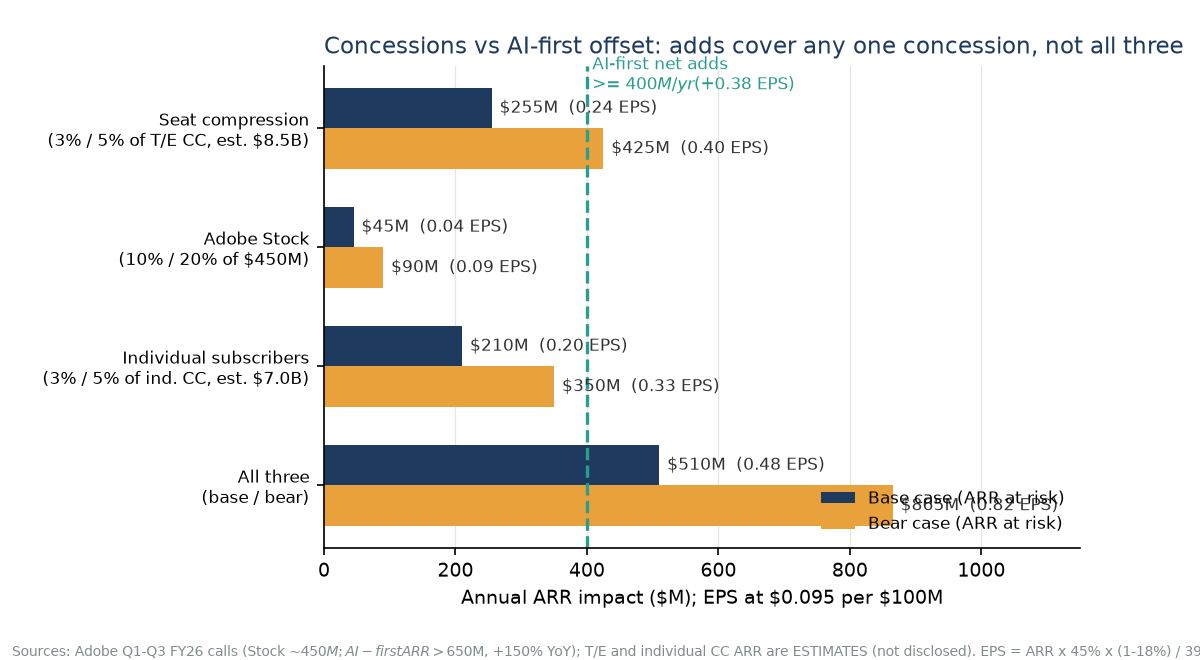
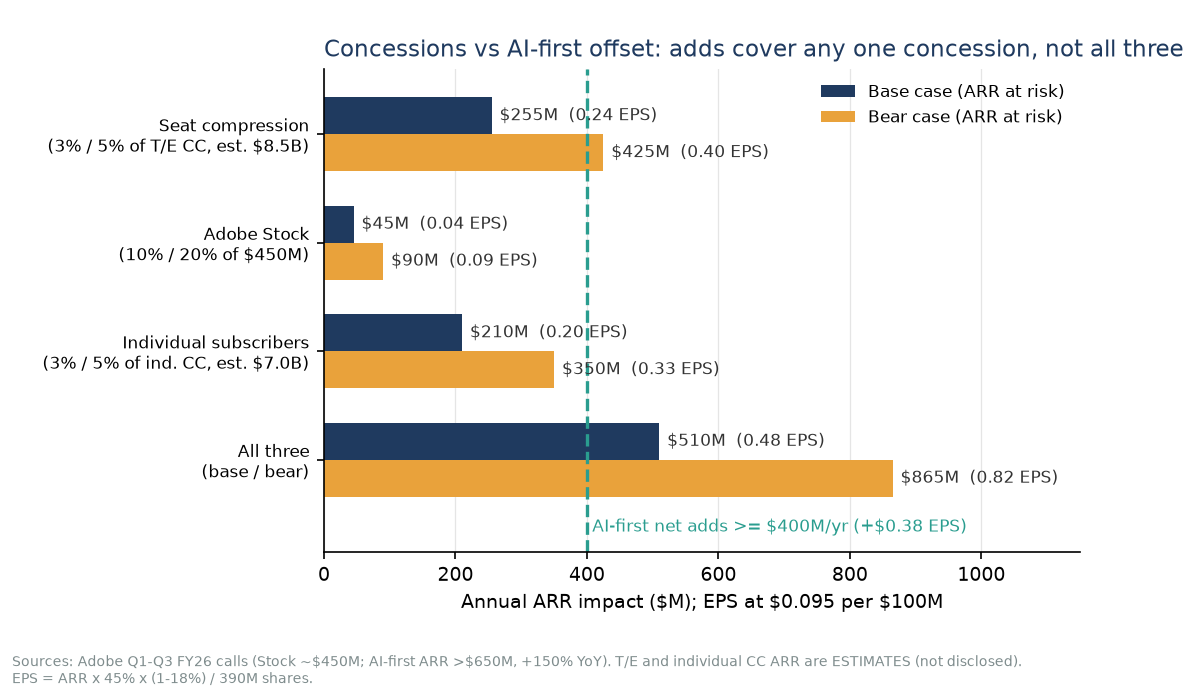
Add concessions workstream: net new ARR rebuild, BLS verification, freelance peers, Stock peers, individual-subscriber quotes, EPS sizing
Claude-Session: https://claude.ai/code/session_0135sjqnFfhmo5TP2aRhoENx

diff --git a/research/tri/concessions/findings.md b/research/tri/concessions/findings.md
@@ -1,11 +1,11 @@
 # Concessions — findings (Subagent E)
 
-**Net-new ARR trajectory (verified, datasheet basis).** FY25 organic net new Total Adobe ARR was $2.63B at Dec-2025 FX (0.47e / 0.58 / 0.66 / 0.92); FY26 is $0.40 / 0.56 (+$0.48B Semrush) / 0.40 / 0.78 implied = **$2.14B organic, -19% YoY**, with Q3 -39% (the "down 36-37%" an analyst cited). FY27 consensus $2.34B assumes +9% re-acceleration from the FY26 organic pace. Confidence: high (data), medium (Q1 FY25 estimate). **WEAKENS** the long's growth narrative; FALSIFIER: Q4 FY26 net new below ~$0.78B.
+**Net-new ARR (verified, datasheet basis).** FY25 organic net new Total Adobe ARR $2.63B at Dec-2025 FX (0.47e/0.58/0.66/0.92); FY26 $0.40/0.56 (+$0.48B Semrush)/0.40/0.78 implied = **$2.14B organic, -19%**, Q3 -39%. FY27 consensus $2.34B assumes +9% re-acceleration. Confidence high (Q1 FY25 estimated). **WEAKENS**; FALSIFIER: Q4 FY26 net new < ~$0.78B.
 
-**1. Seat compression.** BLS verified from source files: graphic designers 214,260 -> 197,830 (-7.7%), creative5 -4.9%, OOH 2025-35 outlook -2% citing "automated design tools, such as artificial intelligence." Freelance peers confirm AI absorbing low-value work: Fiverr revenue -10% in Q2-26 with FY26 guide cut to -14%/-17%; Upwork GSV -4% while AI-related GSV +22%. Size: 3% / 5% of an estimated $8.5B teams/enterprise CC book = **$255M / $425M ARR = $0.24 / $0.40 EPS** (0.9% / 1.5% of FY27 EPS $27.5). Confidence: medium (basis estimated). AI-first adds (>=$400M/yr) cover 1.6x base, 0.9x bear.
+**1. Seat compression.** BLS verified from source files: graphic designers 214,260 -> 197,830 (-7.7%), creative5 -4.9%; OOH 2025-35 outlook -2%, citing "automated design tools, such as artificial intelligence." Freelance peers: Fiverr revenue -10% (Q2-26), FY26 guide cut to -14%/-17% on "categories most exposed to AI automation"; Upwork GSV -4%, AI-related GSV +22%. Size: 3%/5% of an estimated $8.5B teams/enterprise CC book = **$255M/$425M = $0.24/$0.40 EPS** (0.9%/1.5% of FY27 EPS $27.5). Confidence medium (basis estimated). AI-first adds (>=$400M/yr) cover 1.6x base, 0.9x bear.
 
-**2. Adobe Stock.** ~$450M book (Q1 FY26); implied current run-rate decline only ~4% (ex-Stock growth 11.2% vs 10.9%). Peers point to faster erosion: Shutterstock content revenue -17% and subscribers -11% in Q2-26; Getty annual subscribers -25% LTM, creative revenue -4.3% cc; Getty AI data-licensing revenue -67% in Q2-26; Getty-Shutterstock merger terminated July 7, 2026. Size: 10% / 20% = **$45M / $90M = $0.04 / $0.09 EPS**. Confidence: high on size, medium on rate. Covered 8.9x / 4.4x.
+**2. Adobe Stock.** ~$450M book; implied run-rate decline only ~4% (ex-Stock growth 11.2% vs 10.9%). Peers show faster erosion: Shutterstock content revenue -17%, subscribers -11% (Q2-26); Getty annual subscribers -25% LTM, AI data-licensing revenue -67%; Getty-Shutterstock merger terminated July 7, 2026. Size: 10%/20% = **$45M/$90M = $0.04/$0.09 EPS**. Confidence high on size, medium on rate. Covered 8.9x/4.4x.
 
-**3. Individual subscribers.** Management lowered H2 individual-subscriber ARR (freemium routing + deferred CC "line optimizations", "maybe half" each; ~$480M organic cut implied as the 10.2% target absorbed Semrush). WS1 implied C&MP volume growth decelerated 9.3% -> 6.1%. Size: 3% / 5% of an estimated $7.0B individual book = **$210M / $350M = $0.20 / $0.33 EPS**; management's own cut = $0.45. Confidence: medium. Covered 1.9x / 1.1x.
+**3. Individual subscribers.** Management lowered H2 individual ARR (freemium routing plus deferred CC "line optimizations", "maybe half" each; ~$480M organic cut implied as the 10.2% target absorbed Semrush). WS1 implied C&MP volume growth 9.3% -> 6.1%. Size: 3%/5% of an estimated $7.0B individual book = **$210M/$350M = $0.20/$0.33 EPS**; management's own cut = $0.45. Confidence medium. Covered 1.9x/1.1x.
 
-**Net.** All three base concessions = $510M ARR = **$0.48 EPS (1.8% of FY27)**, bear $865M = **$0.82 (3.0%)**; at a 75% decremental margin $0.80 / $1.36. AI-first adds cover any one concession but only 0.8x (base) / 0.5x (bear) of all three together. NEUTRAL-to-WEAKENS for the long: the concessions are bounded, but they are not fully offset.
+**Net.** Base concessions $510M = **$0.48 EPS (1.8% of FY27)**; bear $865M = **$0.82 (3.0%)**; at 75% decremental margin $0.80/$1.36. AI-first adds cover any single concession but only 0.8x (base)/0.5x (bear) of all three. NEUTRAL-to-WEAKENS: bounded, not fully offset.

diff --git a/research/tri/NEEDS_MANUAL.md b/research/tri/NEEDS_MANUAL.md
@@ -22,3 +22,4 @@
 | concessions | BLS OEWS HTML occupation pages (May 2025 / May 2024, 27-1024) | https://www.bls.gov/oes/2025/may/oes271024.htm ; https://www.bls.gov/oes/2024/may/oes271024.htm | pages redirect automated clients to /oes/home.htm; numbers were verified from the BLS source zips (oesm25nat/oesm24nat) instead; a screenshot of the HTML page would close the loop |
 | concessions | Adobe teams/enterprise vs individual Creative Cloud ARR split | research/tri/c1_mix/data/exposure_tiers.csv (Subagent A) | not disclosed by Adobe; concessions_eps.csv uses ESTIMATES $8.5B T/E and $7.0B individual; swap in tiers when written |
 | concessions | FactSet consensus FY27 net new ARR ($2.34B) and EPS (~$27.5) | FactSet / Bloomberg terminal | not verifiable from open sources; used as given |
+| c2_content | CORRECTION to row above: Meta Q1 2024 and Q2 2024 transcripts WERE found | https://s21.q4cdn.com/399680738/files/doc_financials/2024/q2/META-Q2-2024-Earnings-Call-Transcript.pdf | Meta IR CDN (s21.q4cdn.com) is reachable; Q2 2024 call: "more than one million advertisers using at least one of these solutions in the past month". No manual download needed. |
